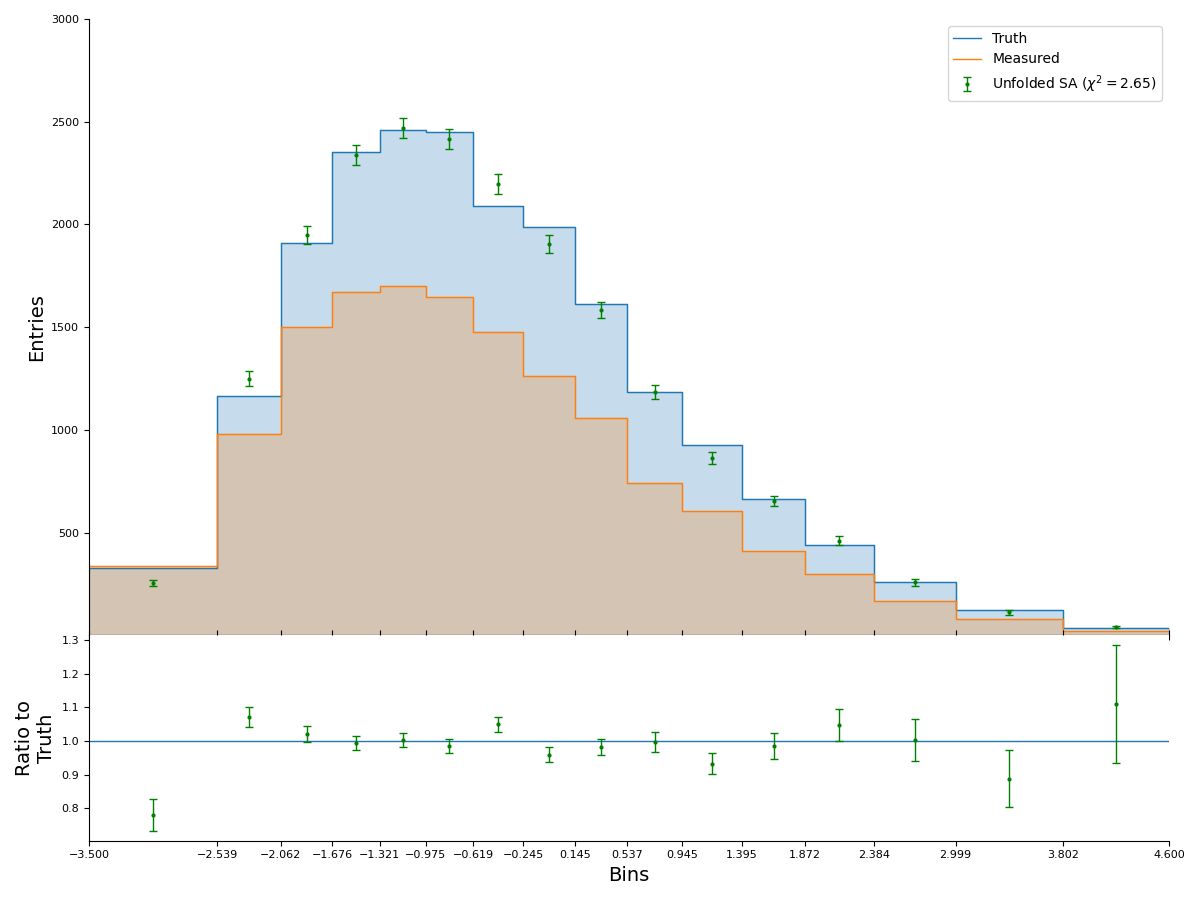
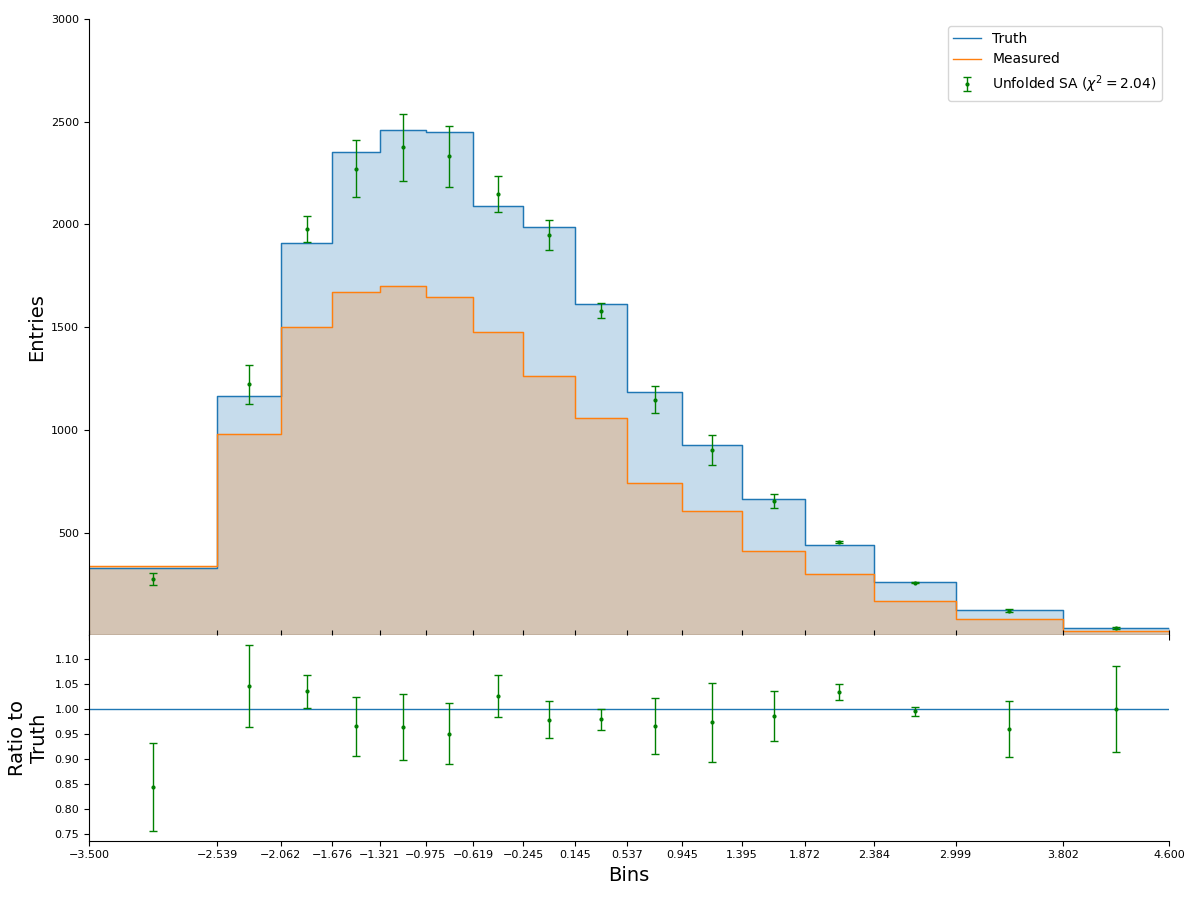
Set mean +- std as default QUBO unfolding solution

Changed region(s): [[0.0, 0.7778, 0.9558, 0.9022], [0.925, 0.7156, 0.9558, 0.7467], [0.185, 0.4044, 0.2158, 0.4356]]

diff --git a/src/qunfold/qunfolder.py b/src/qunfold/qunfolder.py
@@ -24,7 +24,7 @@ class QUnfolder:
         self.d = measured
         self.binning = binning
         self.lam = lam
-        self.sol_pick = "lowest-energy"
+        self.sol_pick = "mean"
 
     @property
     def num_bins(self):
